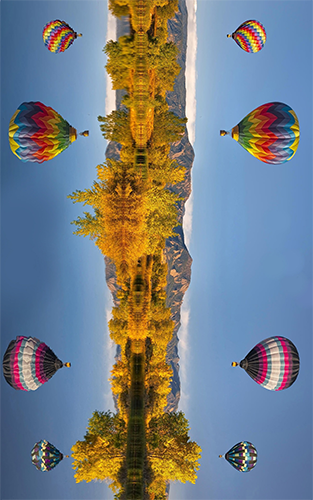
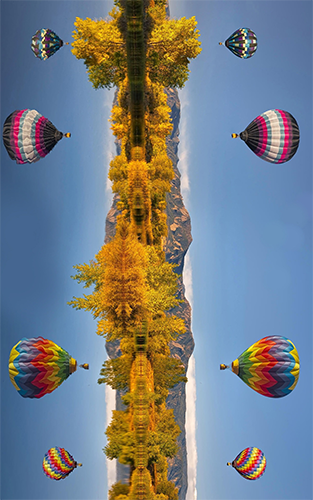
completed quiz

diff --git a/quizzes/part-03-23/part_03_23.py b/quizzes/part-03-23/part_03_23.py
@@ -60,7 +60,7 @@ def image_rotate_090r(image):
     hh = image.height
     return \
         imgvec.image_make_pylist\
-        (ww, hh, int1_map_pylist(hh*ww, lambda ij: imgvec.image_get_pixel(image, -ij%hh , -ij//hh )))
+        (ww, hh, int1_map_pylist(hh*ww, lambda ij: imgvec.image_get_pixel(image, hh-1-ij%hh, ij//hh )))
 ###################################################
 balloons = \
     load_color_image\
